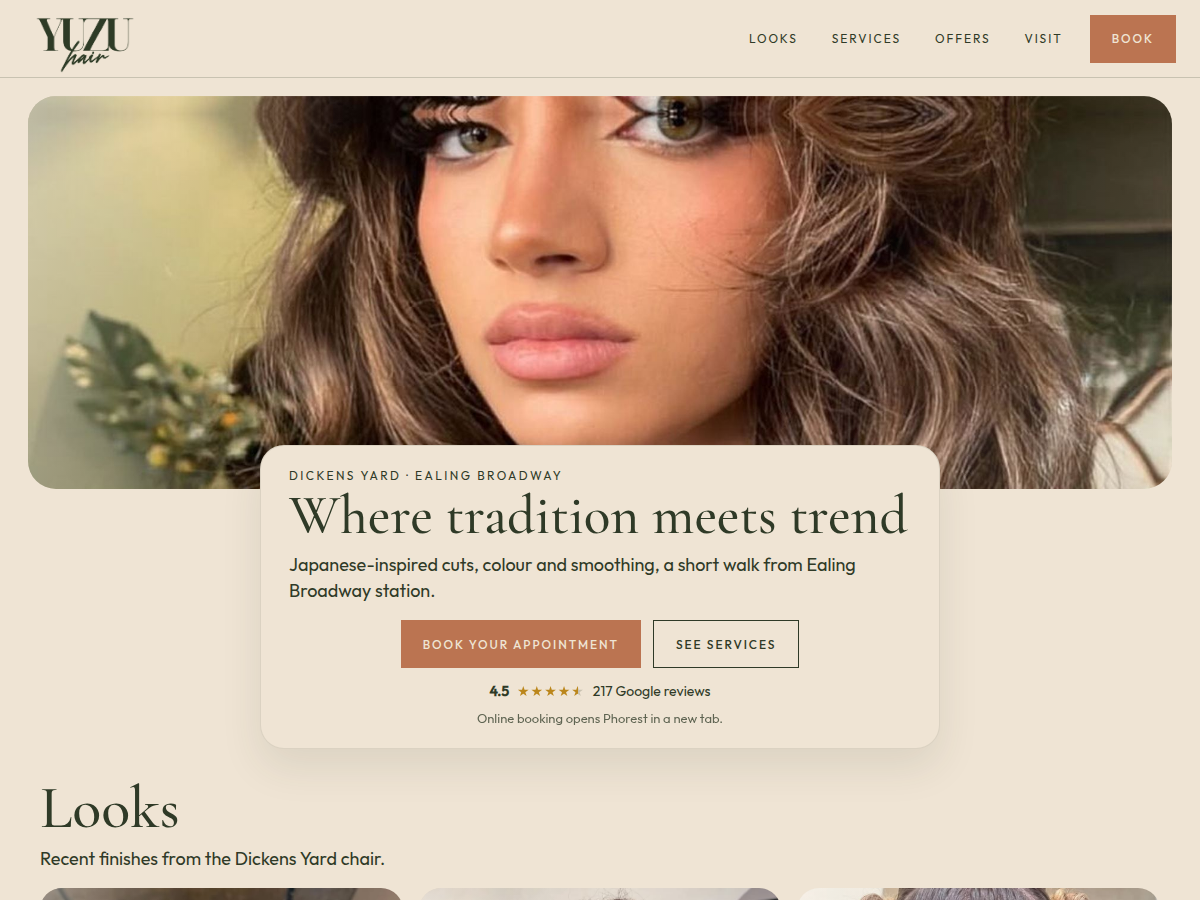
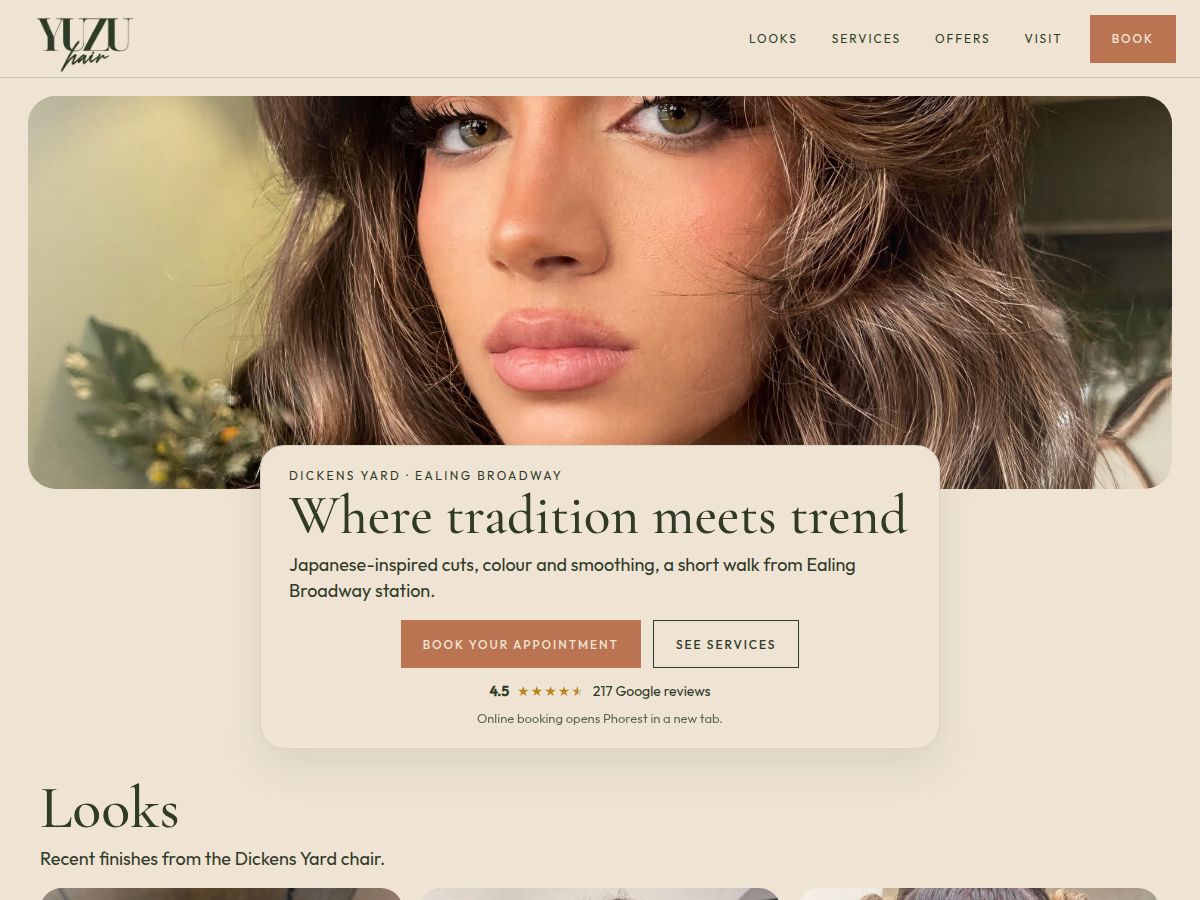
Use uncropped model_2_upscaled portrait for hero.jpg on desktop and mobile

Changed region(s): [[0.0308, 0.0933, 0.9867, 0.56]]

diff --git a/site/index.html b/site/index.html
@@ -12,7 +12,7 @@
   <meta property="og:type" content="website" />
   <meta property="og:locale" content="en_GB" />
   <meta property="og:url" content="https://yuzu.hair/" />
-  <meta property="og:image" content="https://yuzu.hair/assets/clean/hero.jpg" />
+  <meta property="og:image" content="https://yuzu.hair/assets/clean/hero.jpg?v=2" />
   <meta property="og:image:width" content="1920" />
   <meta property="og:image:height" content="660" />
   <meta property="og:image:alt" content="Wavy brunette hair, photographed in the salon at YUZU hair, Ealing" />
@@ -20,13 +20,13 @@
   <meta name="twitter:card" content="summary_large_image" />
   <meta name="twitter:title" content="YUZU hair, Ealing Broadway" />
   <meta name="twitter:description" content="Where tradition meets trend in the art of hair care. Book at Dickens Yard, Ealing." />
-  <meta name="twitter:image" content="https://yuzu.hair/assets/clean/hero.jpg" />
-  <link rel="preload" as="image" href="assets/clean/hero.jpg" />
+  <meta name="twitter:image" content="https://yuzu.hair/assets/clean/hero.jpg?v=2" />
+  <link rel="preload" as="image" href="assets/clean/hero.jpg?v=2" />
   <link rel="stylesheet" href="versions/fonts/fonts.css" />
   <link rel="stylesheet" href="versions/brand.css?v=2" />
   <link rel="stylesheet" href="versions/promo.css?v=10" />
   <link rel="stylesheet" href="versions/fresh.css?v=9" />
-  <link rel="stylesheet" href="versions/blend.css?v=26" />
+  <link rel="stylesheet" href="versions/blend.css?v=27" />
   <link rel="stylesheet" href="versions/versions-bar.css?v=6" />
   <script type="application/ld+json">
       {
@@ -40,7 +40,7 @@
         "hasMenu": "https://yuzu.hair/prices/",
         "areaServed": { "@type": "City", "name": "Ealing" },
         "geo": { "@type": "GeoCoordinates", "latitude": 51.5137, "longitude": -0.302 },
-        "image": "https://yuzu.hair/assets/clean/hero.jpg",
+        "image": "https://yuzu.hair/assets/clean/hero.jpg?v=2",
         "telephone": "+442088402244",
         "email": "info@yuzuhairandbeauty.co.uk",
         "priceRange": "££",
@@ -136,7 +136,7 @@
     </nav>
   </header>
   <section class="hero hero-float">
-    <span class="shine hero-photo"><img src="assets/clean/hero.jpg" alt="Wavy brunette hair, photographed in the salon at YUZU hair, Ealing" width="1920" height="660" fetchpriority="high" /></span>
+    <span class="shine hero-photo"><img src="assets/clean/hero.jpg?v=2" alt="Wavy brunette hair, photographed in the salon at YUZU hair, Ealing" width="1920" height="660" fetchpriority="high" /></span>
     <div class="hero-copy">
       <p class="kicker" data-yuzu-copy="home-hero-kicker">Dickens Yard · Ealing Broadway</p>
       <h1 data-yuzu-copy="home-hero-title">Where tradition meets trend</h1>

diff --git a/site/versions/live-team-mock.html b/site/versions/live-team-mock.html
@@ -19,7 +19,7 @@
     <meta property="og:type" content="website" />
     <meta property="og:locale" content="en_GB" />
     <meta property="og:url" content="https://yuzu.hair/" />
-    <meta property="og:image" content="https://yuzu.hair/assets/clean/hero.jpg" />
+    <meta property="og:image" content="https://yuzu.hair/assets/clean/hero.jpg?v=2" />
     <meta property="og:image:width" content="1920" />
     <meta property="og:image:height" content="660" />
     <meta property="og:image:alt" content="YUZU hair, Ealing Broadway" />
@@ -27,15 +27,15 @@
     <meta name="twitter:card" content="summary_large_image" />
     <meta name="twitter:title" content="YUZU hair, Ealing Broadway" />
     <meta name="twitter:description" content="Where tradition meets trend in the art of hair care. Book at Dickens Yard, Ealing." />
-    <meta name="twitter:image" content="https://yuzu.hair/assets/clean/hero.jpg" />
-    <link rel="preload" as="image" href="../assets/clean/hero.jpg" />
+    <meta name="twitter:image" content="https://yuzu.hair/assets/clean/hero.jpg?v=2" />
+    <link rel="preload" as="image" href="../assets/clean/hero.jpg?v=2" />
     <link rel="preconnect" href="https://fonts.googleapis.com" />
     <link rel="preconnect" href="https://fonts.gstatic.com" crossorigin />
     <link
       href="https://fonts.googleapis.com/css2?family=Fraunces:opsz,wght@9..144,500;9..144,600&family=Outfit:wght@400;500;600;700&display=swap"
       rel="stylesheet"
     />
-    <link rel="stylesheet" href="../css/site.css?v=32" />
+    <link rel="stylesheet" href="../css/site.css?v=33" />
     <link rel="stylesheet" href="../versions/promo.css?v=10" />
     <style>
       .ig-frame { background: #fffdfb; border-radius: 24px; padding: 12px; overflow: hidden; }
@@ -92,7 +92,7 @@
         "hasMenu": "https://yuzu.hair/prices/",
         "areaServed": { "@type": "City", "name": "Ealing" },
         "geo": { "@type": "GeoCoordinates", "latitude": 51.5137, "longitude": -0.302 },
-        "image": "https://yuzu.hair/assets/clean/hero.jpg",
+        "image": "https://yuzu.hair/assets/clean/hero.jpg?v=2",
         "telephone": "+442088402244",
         "email": "info@yuzuhairandbeauty.co.uk",
         "priceRange": "££",
@@ -161,7 +161,7 @@
           <div class="wrap">
             <img
               class="round-hero-img"
-              src="../assets/clean/hero.jpg"
+              src="../assets/clean/hero.jpg?v=2"
               alt="Wavy brunette hair, photographed in the salon at YUZU hair, Ealing"
               width="1920"
               height="660"

diff --git a/site/versions/blend.html b/site/versions/blend.html
@@ -19,7 +19,7 @@
     <meta property="og:type" content="website" />
     <meta property="og:locale" content="en_GB" />
     <meta property="og:url" content="https://yuzu.hair/" />
-    <meta property="og:image" content="https://yuzu.hair/assets/clean/hero.jpg" />
+    <meta property="og:image" content="https://yuzu.hair/assets/clean/hero.jpg?v=2" />
     <meta property="og:image:width" content="1920" />
     <meta property="og:image:height" content="660" />
     <meta property="og:image:alt" content="YUZU hair, Ealing Broadway" />
@@ -27,15 +27,15 @@
     <meta name="twitter:card" content="summary_large_image" />
     <meta name="twitter:title" content="YUZU hair, Ealing Broadway" />
     <meta name="twitter:description" content="Where tradition meets trend in the art of hair care. Book at Dickens Yard, Ealing." />
-    <meta name="twitter:image" content="https://yuzu.hair/assets/clean/hero.jpg" />
-    <link rel="preload" as="image" href="../assets/clean/hero.jpg" />
+    <meta name="twitter:image" content="https://yuzu.hair/assets/clean/hero.jpg?v=2" />
+    <link rel="preload" as="image" href="../assets/clean/hero.jpg?v=2" />
     <link rel="preconnect" href="https://fonts.googleapis.com" />
     <link rel="preconnect" href="https://fonts.gstatic.com" crossorigin />
     <link
       href="https://fonts.googleapis.com/css2?family=Fraunces:opsz,wght@9..144,500;9..144,600&family=Outfit:wght@400;500;600;700&display=swap"
       rel="stylesheet"
     />
-    <link rel="stylesheet" href="../css/site.css?v=32" />
+    <link rel="stylesheet" href="../css/site.css?v=33" />
     <link rel="stylesheet" href="promo.css?v=10" />
     <style>
       .ig-frame { background: #fffdfb; border-radius: 24px; padding: 12px; overflow: hidden; }
@@ -65,7 +65,7 @@
         "hasMenu": "https://yuzu.hair/prices/",
         "areaServed": { "@type": "City", "name": "Ealing" },
         "geo": { "@type": "GeoCoordinates", "latitude": 51.5137, "longitude": -0.302 },
-        "image": "https://yuzu.hair/assets/clean/hero.jpg",
+        "image": "https://yuzu.hair/assets/clean/hero.jpg?v=2",
         "telephone": "+442088402244",
         "email": "info@yuzuhairandbeauty.co.uk",
         "priceRange": "££",
@@ -134,7 +134,7 @@
           <div class="wrap">
             <img
               class="round-hero-img"
-              src="../assets/clean/hero.jpg"
+              src="../assets/clean/hero.jpg?v=2"
               alt="Wavy brunette hair, photographed in the salon at YUZU hair, Ealing"
               width="1920"
               height="660"

diff --git a/site/versions/blend-prices.html b/site/versions/blend-prices.html
@@ -16,19 +16,19 @@
     <meta property="og:locale" content="en_GB" />
     <meta property="og:site_name" content="YUZU hair" />
     <meta property="og:url" content="https://yuzu.hair/prices/" />
-    <meta property="og:image" content="https://yuzu.hair/assets/clean/hero.jpg" />
+    <meta property="og:image" content="https://yuzu.hair/assets/clean/hero.jpg?v=2" />
     <meta property="og:image:width" content="1920" />
     <meta property="og:image:height" content="660" />
     <meta property="og:image:alt" content="YUZU hair, Ealing Broadway" />
     <meta name="twitter:card" content="summary_large_image" />
     <meta name="twitter:title" content="Price list | YUZU hair, Ealing Broadway" />
     <meta name="twitter:description" content="Hair price list for YUZU hair in Ealing: cuts, colour, balayage and treatments. Ladies wash, cut and style from £60. Call 020 8840 2244." />
-    <meta name="twitter:image" content="https://yuzu.hair/assets/clean/hero.jpg" />
+    <meta name="twitter:image" content="https://yuzu.hair/assets/clean/hero.jpg?v=2" />
     <link rel="icon" href="../favicon.svg" type="image/svg+xml" />
     <link rel="preconnect" href="https://fonts.googleapis.com" />
     <link rel="preconnect" href="https://fonts.gstatic.com" crossorigin />
     <link href="https://fonts.googleapis.com/css2?family=Fraunces:opsz,wght@9..144,500;9..144,600&family=Outfit:wght@400;500;600;700&display=swap" rel="stylesheet" />
-    <link rel="stylesheet" href="../css/site.css?v=32" />
+    <link rel="stylesheet" href="../css/site.css?v=33" />
       <script type="application/ld+json">
       {
         "@context": "https://schema.org",

diff --git a/site/terms.html b/site/terms.html
@@ -12,19 +12,19 @@
     <meta property="og:locale" content="en_GB" />
     <meta property="og:site_name" content="Yuzu Hair &amp; Beauty" />
     <meta property="og:url" content="https://yuzu.hair/terms/" />
-    <meta property="og:image" content="https://yuzu.hair/assets/clean/hero.jpg" />
+    <meta property="og:image" content="https://yuzu.hair/assets/clean/hero.jpg?v=2" />
     <meta property="og:image:width" content="1920" />
     <meta property="og:image:height" content="660" />
     <meta property="og:image:alt" content="Yuzu Hair &amp; Beauty, Ealing Broadway" />
     <meta name="twitter:card" content="summary_large_image" />
     <meta name="twitter:title" content="Terms and conditions | Yuzu Hair &amp; Beauty" />
     <meta name="twitter:description" content="Yuzu Hair terms: arrival, skin patch test, 48 working hour cancellation, redo and refund policy." />
-    <meta name="twitter:image" content="https://yuzu.hair/assets/clean/hero.jpg" />
+    <meta name="twitter:image" content="https://yuzu.hair/assets/clean/hero.jpg?v=2" />
     <link rel="icon" href="favicon.svg" type="image/svg+xml" />
     <link rel="preconnect" href="https://fonts.googleapis.com" />
     <link rel="preconnect" href="https://fonts.gstatic.com" crossorigin />
     <link href="https://fonts.googleapis.com/css2?family=Fraunces:opsz,wght@9..144,500;9..144,600&family=Outfit:wght@400;500;600;700&display=swap" rel="stylesheet" />
-    <link rel="stylesheet" href="css/site.css?v=32" />
+    <link rel="stylesheet" href="css/site.css?v=33" />
       <script type="application/ld+json">
       {
         "@context": "https://schema.org",

diff --git a/site/offers.html b/site/offers.html
@@ -15,20 +15,20 @@
     <meta property="og:locale" content="en_GB" />
     <meta property="og:site_name" content="YUZU hair" />
     <meta property="og:url" content="https://yuzu.hair/offers/" />
-    <meta property="og:image" content="https://yuzu.hair/assets/clean/hero.jpg" />
+    <meta property="og:image" content="https://yuzu.hair/assets/clean/hero.jpg?v=2" />
     <meta property="og:image:width" content="1920" />
     <meta property="og:image:height" content="660" />
     <meta property="og:image:alt" content="YUZU hair, Ealing Broadway" />
     <meta name="twitter:card" content="summary_large_image" />
     <meta name="twitter:title" content="Exclusive offers | YUZU hair, Ealing" />
     <meta name="twitter:description" content="Exclusive offers at YUZU hair in Ealing Broadway: 50% off colour on Tuesdays and Thursdays, 25% off Brazilian blow-dry on Wednesdays, refer a friend and same-day rebook." />
-    <meta name="twitter:image" content="https://yuzu.hair/assets/clean/hero.jpg" />
+    <meta name="twitter:image" content="https://yuzu.hair/assets/clean/hero.jpg?v=2" />
     <link rel="icon" href="favicon.svg" type="image/svg+xml" />
     <link rel="stylesheet" href="versions/fonts/fonts.css" />
     <link rel="stylesheet" href="versions/brand.css?v=2" />
     <link rel="stylesheet" href="versions/promo.css?v=10" />
     <link rel="stylesheet" href="versions/fresh.css?v=9" />
-    <link rel="stylesheet" href="versions/blend.css?v=26" />
+    <link rel="stylesheet" href="versions/blend.css?v=27" />
     <script type="application/ld+json">
       {
         "@context": "https://schema.org",

diff --git a/site/privacy.html b/site/privacy.html
@@ -12,19 +12,19 @@
     <meta property="og:locale" content="en_GB" />
     <meta property="og:site_name" content="Yuzu Hair &amp; Beauty" />
     <meta property="og:url" content="https://yuzu.hair/privacy/" />
-    <meta property="og:image" content="https://yuzu.hair/assets/clean/hero.jpg" />
+    <meta property="og:image" content="https://yuzu.hair/assets/clean/hero.jpg?v=2" />
     <meta property="og:image:width" content="1920" />
     <meta property="og:image:height" content="660" />
     <meta property="og:image:alt" content="Yuzu Hair &amp; Beauty, Ealing Broadway" />
     <meta name="twitter:card" content="summary_large_image" />
     <meta name="twitter:title" content="Privacy | Yuzu Hair &amp; Beauty" />
     <meta name="twitter:description" content="How the Yuzu Hair website and salon handle your details." />
-    <meta name="twitter:image" content="https://yuzu.hair/assets/clean/hero.jpg" />
+    <meta name="twitter:image" content="https://yuzu.hair/assets/clean/hero.jpg?v=2" />
     <link rel="icon" href="favicon.svg" type="image/svg+xml" />
     <link rel="preconnect" href="https://fonts.googleapis.com" />
     <link rel="preconnect" href="https://fonts.gstatic.com" crossorigin />
     <link href="https://fonts.googleapis.com/css2?family=Fraunces:opsz,wght@9..144,500;9..144,600&family=Outfit:wght@400;500;600;700&display=swap" rel="stylesheet" />
-    <link rel="stylesheet" href="css/site.css?v=32" />
+    <link rel="stylesheet" href="css/site.css?v=33" />
       <script type="application/ld+json">
       {
         "@context": "https://schema.org",

diff --git a/site/team.html b/site/team.html
@@ -15,19 +15,19 @@
     <meta property="og:locale" content="en_GB" />
     <meta property="og:site_name" content="YUZU hair" />
     <meta property="og:url" content="https://yuzu.hair/team/" />
-    <meta property="og:image" content="https://yuzu.hair/assets/clean/hero.jpg" />
+    <meta property="og:image" content="https://yuzu.hair/assets/clean/hero.jpg?v=2" />
     <meta property="og:image:width" content="1920" />
     <meta property="og:image:height" content="660" />
     <meta property="og:image:alt" content="YUZU hair, Ealing Broadway" />
     <meta name="twitter:card" content="summary_large_image" />
     <meta name="twitter:title" content="Join our team | YUZU hair, Ealing" />
     <meta name="twitter:description" content="Think you’ve got what it takes to join the YUZU hair team? Senior stylists, stylists and models at 5 Dickens Yard, Ealing Broadway. Email your CV to info@yuzuhairandbeauty.co.uk." />
-    <meta name="twitter:image" content="https://yuzu.hair/assets/clean/hero.jpg" />
+    <meta name="twitter:image" content="https://yuzu.hair/assets/clean/hero.jpg?v=2" />
     <link rel="icon" href="favicon.svg" type="image/svg+xml" />
     <link rel="stylesheet" href="versions/fonts/fonts.css" />
     <link rel="stylesheet" href="versions/brand.css?v=2" />
     <link rel="stylesheet" href="versions/fresh.css?v=9" />
-    <link rel="stylesheet" href="versions/blend.css?v=26" />
+    <link rel="stylesheet" href="versions/blend.css?v=27" />
     <script type="application/ld+json">
       {
         "@context": "https://schema.org",

diff --git a/site/patch.html b/site/patch.html
@@ -12,19 +12,19 @@
     <meta property="og:locale" content="en_GB" />
     <meta property="og:site_name" content="YUZU hair" />
     <meta property="og:url" content="https://yuzu.hair/patch/" />
-    <meta property="og:image" content="https://yuzu.hair/assets/clean/hero.jpg" />
+    <meta property="og:image" content="https://yuzu.hair/assets/clean/hero.jpg?v=2" />
     <meta property="og:image:width" content="1920" />
     <meta property="og:image:height" content="660" />
     <meta property="og:image:alt" content="YUZU hair, Ealing Broadway" />
     <meta name="twitter:card" content="summary_large_image" />
     <meta name="twitter:title" content="Mandatory patch testing | YUZU hair" />
     <meta name="twitter:description" content="YUZU hair requires a mandatory patch test for all clients before any colour service, including existing and new clients. Complete it at least 48 hours before." />
-    <meta name="twitter:image" content="https://yuzu.hair/assets/clean/hero.jpg" />
+    <meta name="twitter:image" content="https://yuzu.hair/assets/clean/hero.jpg?v=2" />
     <link rel="icon" href="favicon.svg" type="image/svg+xml" />
     <link rel="stylesheet" href="versions/fonts/fonts.css" />
     <link rel="stylesheet" href="versions/brand.css?v=2" />
     <link rel="stylesheet" href="versions/fresh.css?v=9" />
-    <link rel="stylesheet" href="versions/blend.css?v=26" />
+    <link rel="stylesheet" href="versions/blend.css?v=27" />
     <script type="application/ld+json">
       {
         "@context": "https://schema.org",

diff --git a/site/contact.html b/site/contact.html
@@ -15,19 +15,19 @@
     <meta property="og:locale" content="en_GB" />
     <meta property="og:site_name" content="YUZU hair" />
     <meta property="og:url" content="https://yuzu.hair/contact/" />
-    <meta property="og:image" content="https://yuzu.hair/assets/clean/hero.jpg" />
+    <meta property="og:image" content="https://yuzu.hair/assets/clean/hero.jpg?v=2" />
     <meta property="og:image:width" content="1920" />
     <meta property="og:image:height" content="660" />
     <meta property="og:image:alt" content="YUZU hair, Ealing Broadway" />
     <meta name="twitter:card" content="summary_large_image" />
     <meta name="twitter:title" content="Contact | YUZU hair, Ealing" />
     <meta name="twitter:description" content="Send a message to YUZU hair at 5 Dickens Yard, Ealing. Call 020 8840 2244 or email info@yuzuhairandbeauty.co.uk." />
-    <meta name="twitter:image" content="https://yuzu.hair/assets/clean/hero.jpg" />
+    <meta name="twitter:image" content="https://yuzu.hair/assets/clean/hero.jpg?v=2" />
     <link rel="icon" href="favicon.svg" type="image/svg+xml" />
     <link rel="stylesheet" href="versions/fonts/fonts.css" />
     <link rel="stylesheet" href="versions/brand.css?v=2" />
     <link rel="stylesheet" href="versions/fresh.css?v=9" />
-    <link rel="stylesheet" href="versions/blend.css?v=26" />
+    <link rel="stylesheet" href="versions/blend.css?v=27" />
     <script type="application/ld+json">
       {
         "@context": "https://schema.org",

diff --git a/site/about.html b/site/about.html
@@ -15,19 +15,19 @@
     <meta property="og:locale" content="en_GB" />
     <meta property="og:site_name" content="YUZU hair" />
     <meta property="og:url" content="https://yuzu.hair/about/" />
-    <meta property="og:image" content="https://yuzu.hair/assets/clean/hero.jpg" />
+    <meta property="og:image" content="https://yuzu.hair/assets/clean/hero.jpg?v=2" />
     <meta property="og:image:width" content="1920" />
     <meta property="og:image:height" content="660" />
     <meta property="og:image:alt" content="YUZU hair, Ealing Broadway" />
     <meta name="twitter:card" content="summary_large_image" />
     <meta name="twitter:title" content="About | YUZU hair, Ealing" />
     <meta name="twitter:description" content="YUZU hair at 5 Dickens Yard, Ealing Broadway. Japanese-inspired cuts and colour, a short walk from the station." />
-    <meta name="twitter:image" content="https://yuzu.hair/assets/clean/hero.jpg" />
+    <meta name="twitter:image" content="https://yuzu.hair/assets/clean/hero.jpg?v=2" />
     <link rel="icon" href="favicon.svg" type="image/svg+xml" />
     <link rel="stylesheet" href="versions/fonts/fonts.css" />
     <link rel="stylesheet" href="versions/brand.css?v=2" />
     <link rel="stylesheet" href="versions/fresh.css?v=9" />
-    <link rel="stylesheet" href="versions/blend.css?v=26" />
+    <link rel="stylesheet" href="versions/blend.css?v=27" />
     <script type="application/ld+json">
       {
         "@context": "https://schema.org",

diff --git a/site/questions.html b/site/questions.html
@@ -12,19 +12,19 @@
     <meta property="og:locale" content="en_GB" />
     <meta property="og:site_name" content="YUZU hair" />
     <meta property="og:url" content="https://yuzu.hair/questions/" />
-    <meta property="og:image" content="https://yuzu.hair/assets/clean/hero.jpg" />
+    <meta property="og:image" content="https://yuzu.hair/assets/clean/hero.jpg?v=2" />
     <meta property="og:image:width" content="1920" />
     <meta property="og:image:height" content="660" />
     <meta property="og:image:alt" content="YUZU hair, Ealing Broadway" />
     <meta name="twitter:card" content="summary_large_image" />
     <meta name="twitter:title" content="Questions | YUZU hair, Ealing" />
     <meta name="twitter:description" content="How much is a haircut at YUZU hair in Ealing? Patch tests, hours, and how to book at 5 Dickens Yard." />
-    <meta name="twitter:image" content="https://yuzu.hair/assets/clean/hero.jpg" />
+    <meta name="twitter:image" content="https://yuzu.hair/assets/clean/hero.jpg?v=2" />
     <link rel="icon" href="favicon.svg" type="image/svg+xml" />
     <link rel="stylesheet" href="versions/fonts/fonts.css" />
     <link rel="stylesheet" href="versions/brand.css?v=2" />
     <link rel="stylesheet" href="versions/fresh.css?v=9" />
-    <link rel="stylesheet" href="versions/blend.css?v=26" />
+    <link rel="stylesheet" href="versions/blend.css?v=27" />
     <script type="application/ld+json">
       {
         "@context": "https://schema.org",
